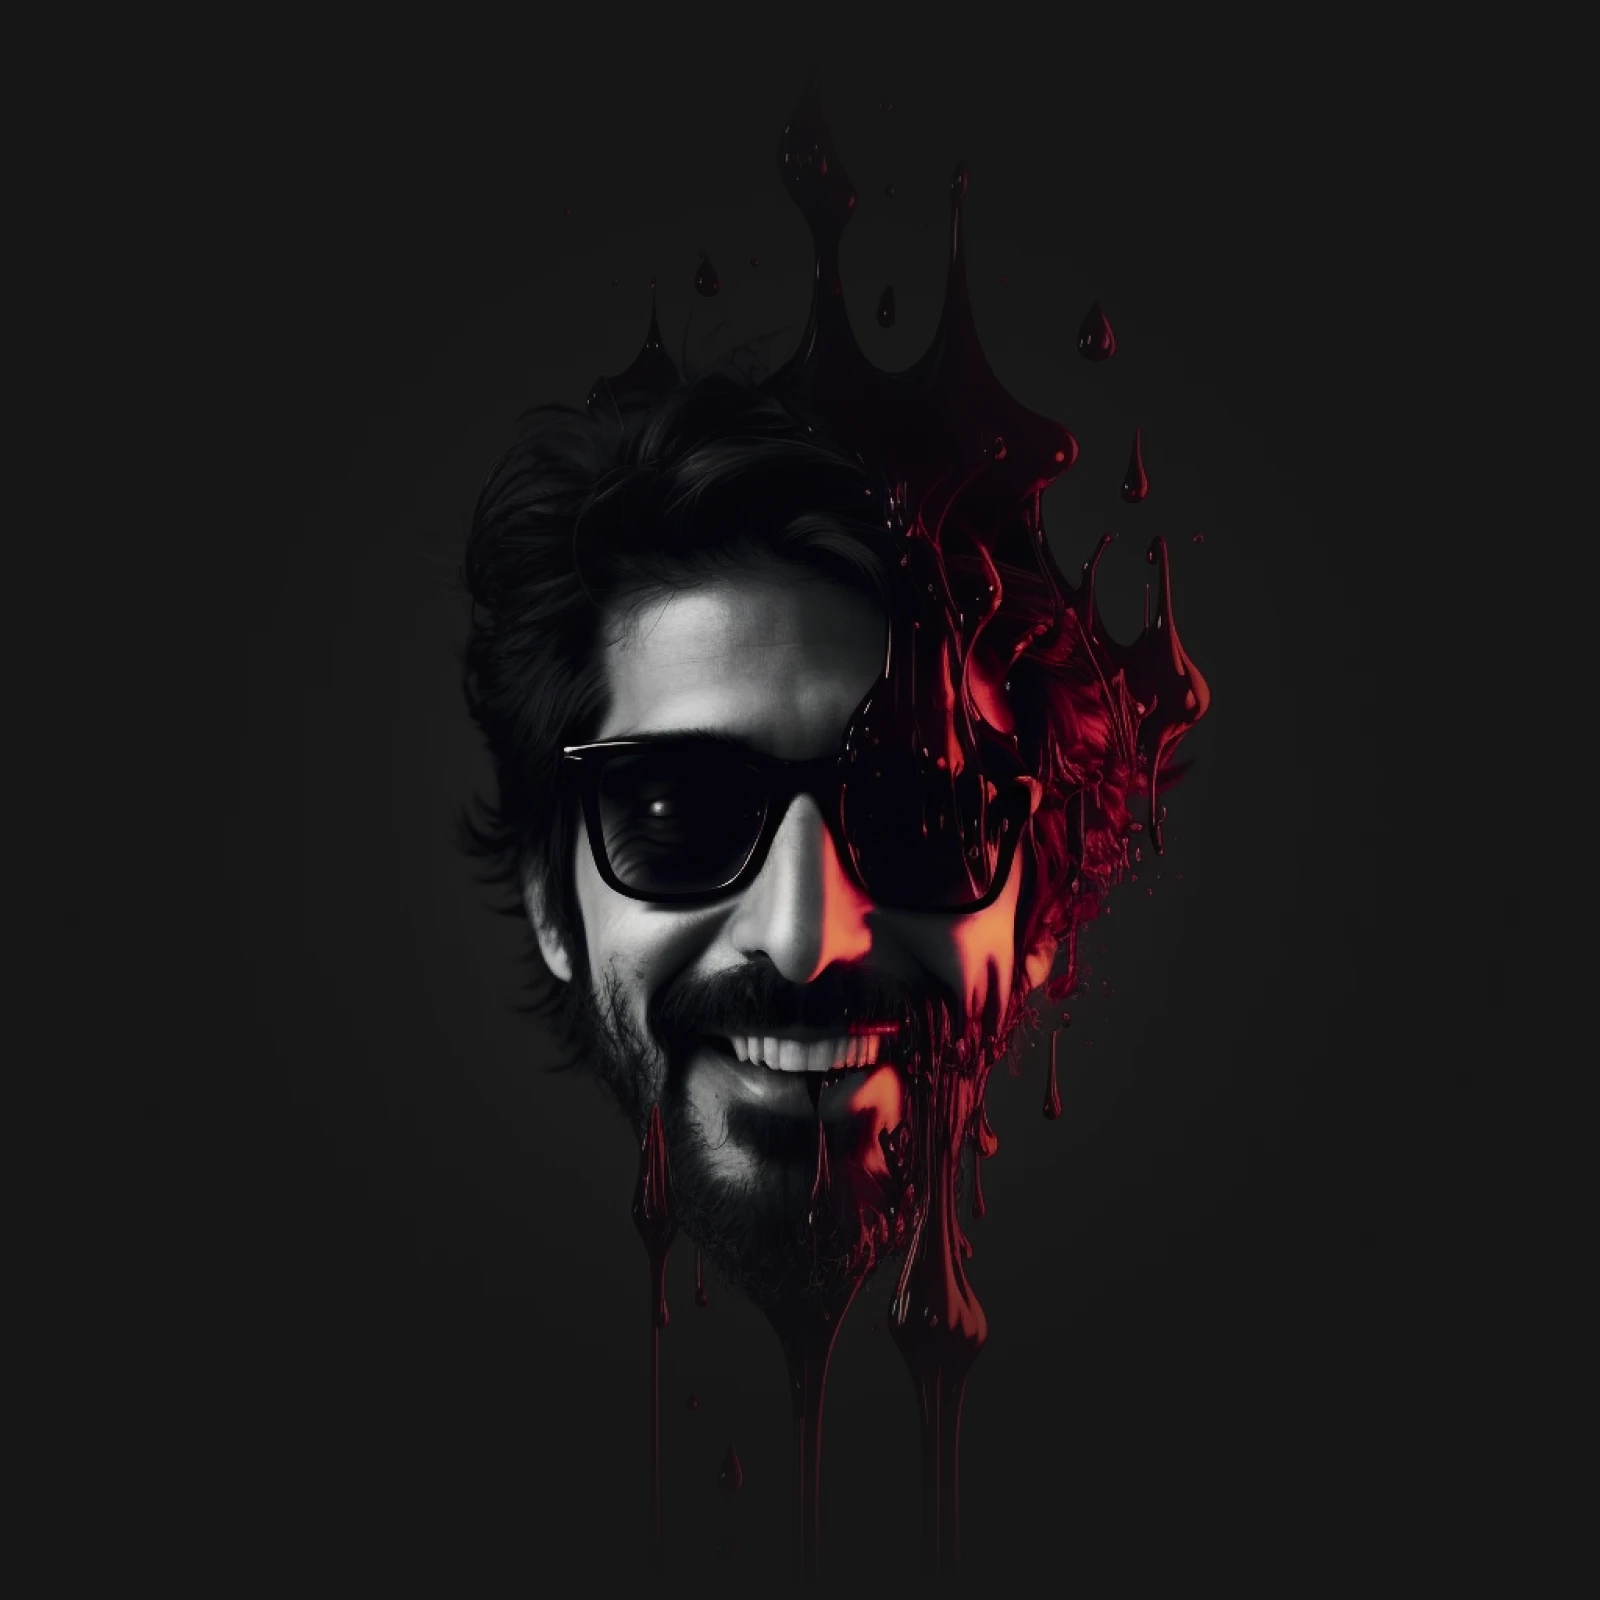
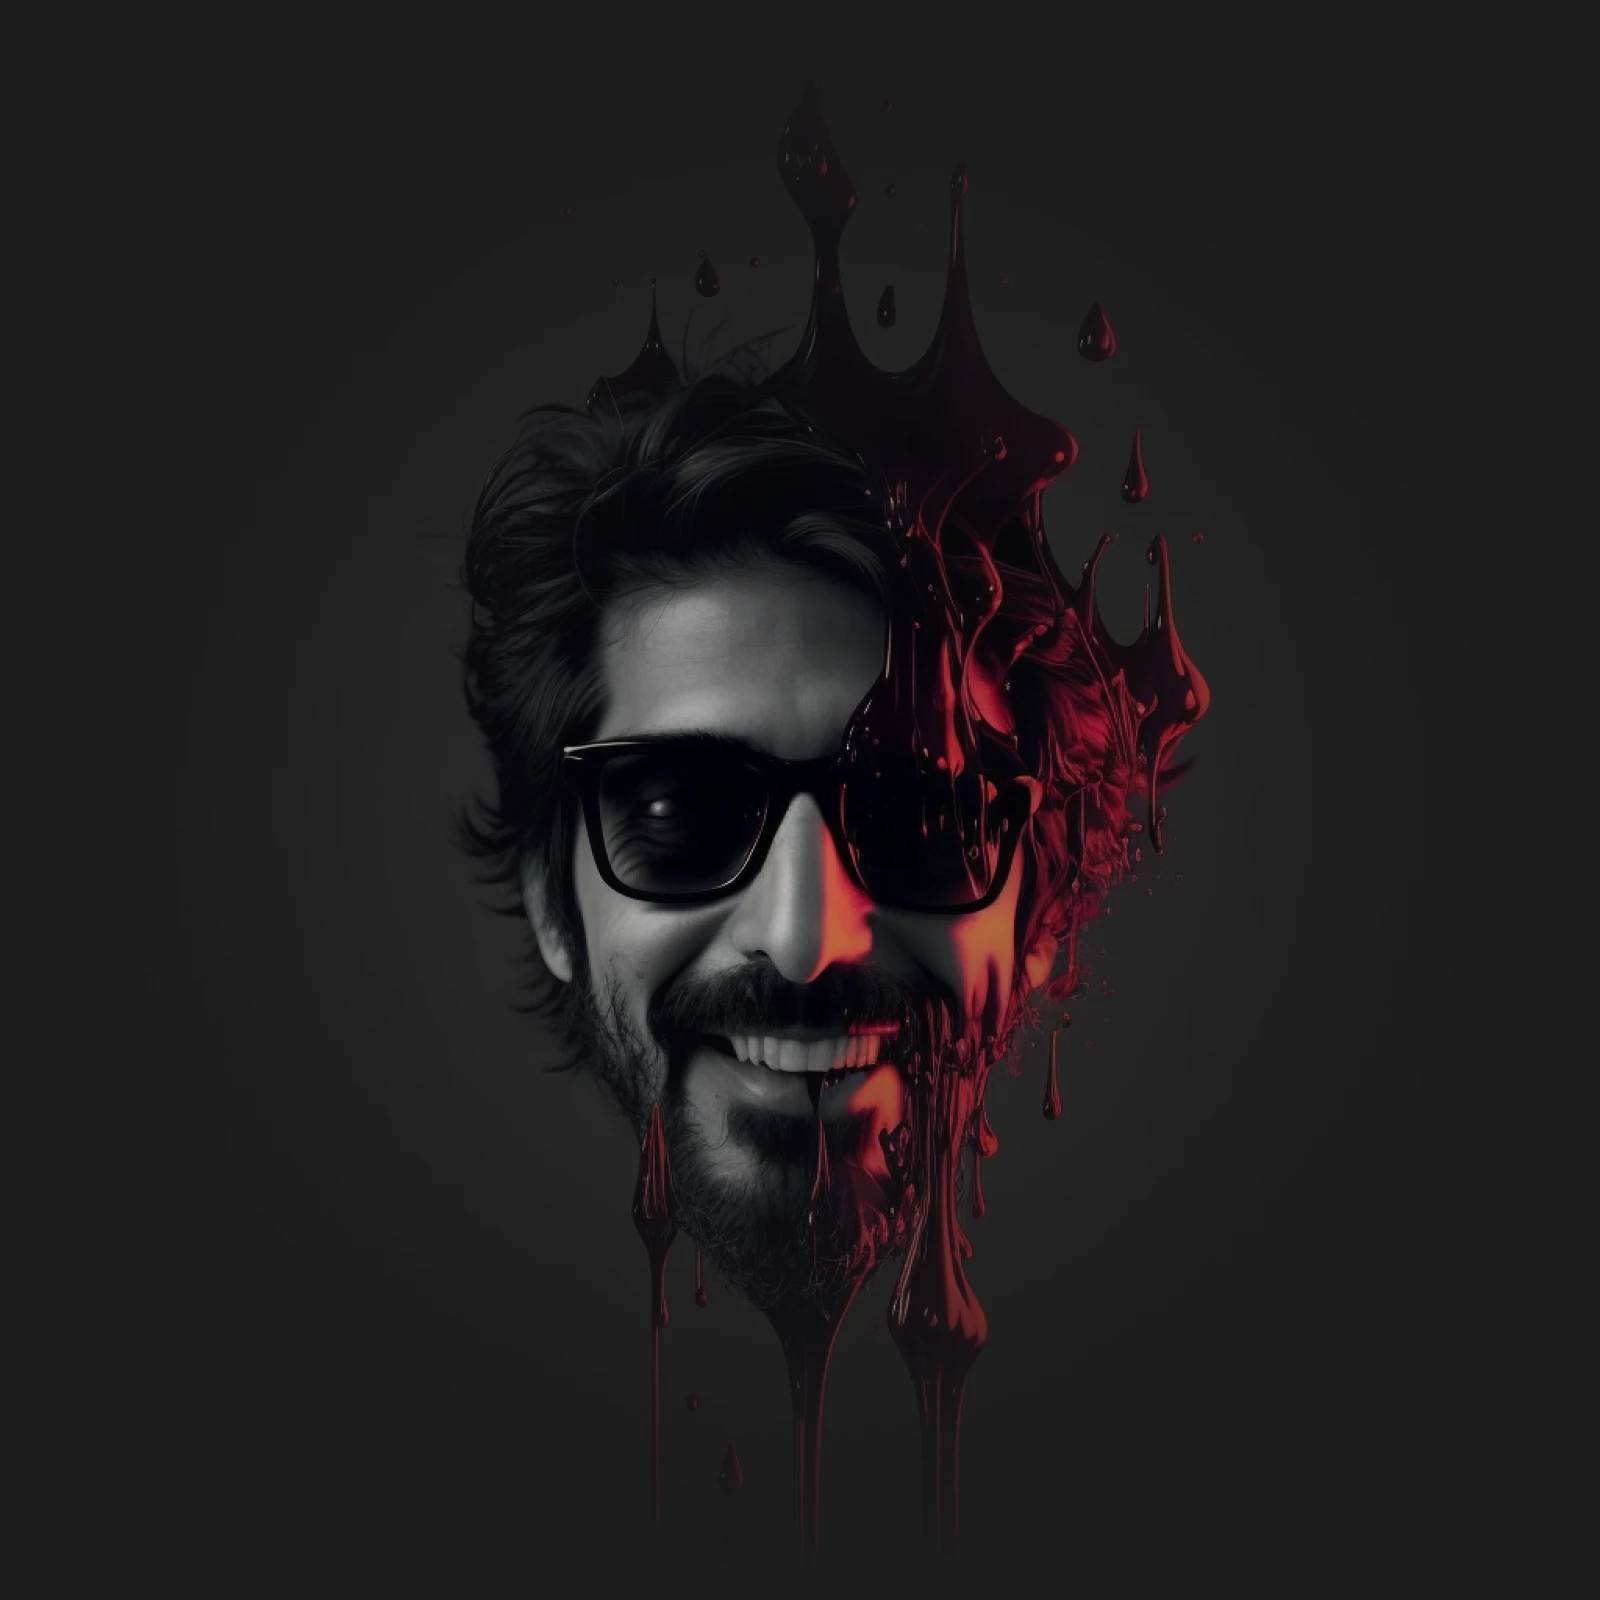
.

diff --git a/static/styles.css b/static/styles.css
@@ -1,5 +1,5 @@
 :root {
-	--color-bg: #161616;
+	--color-bg: #1C1C1C;
 	--color-light: #ffffff;
 	--color-dark: rgba(0, 0, 0, 0.5);
 	--color-lightish: rgba(255, 255, 255, 0.05);
